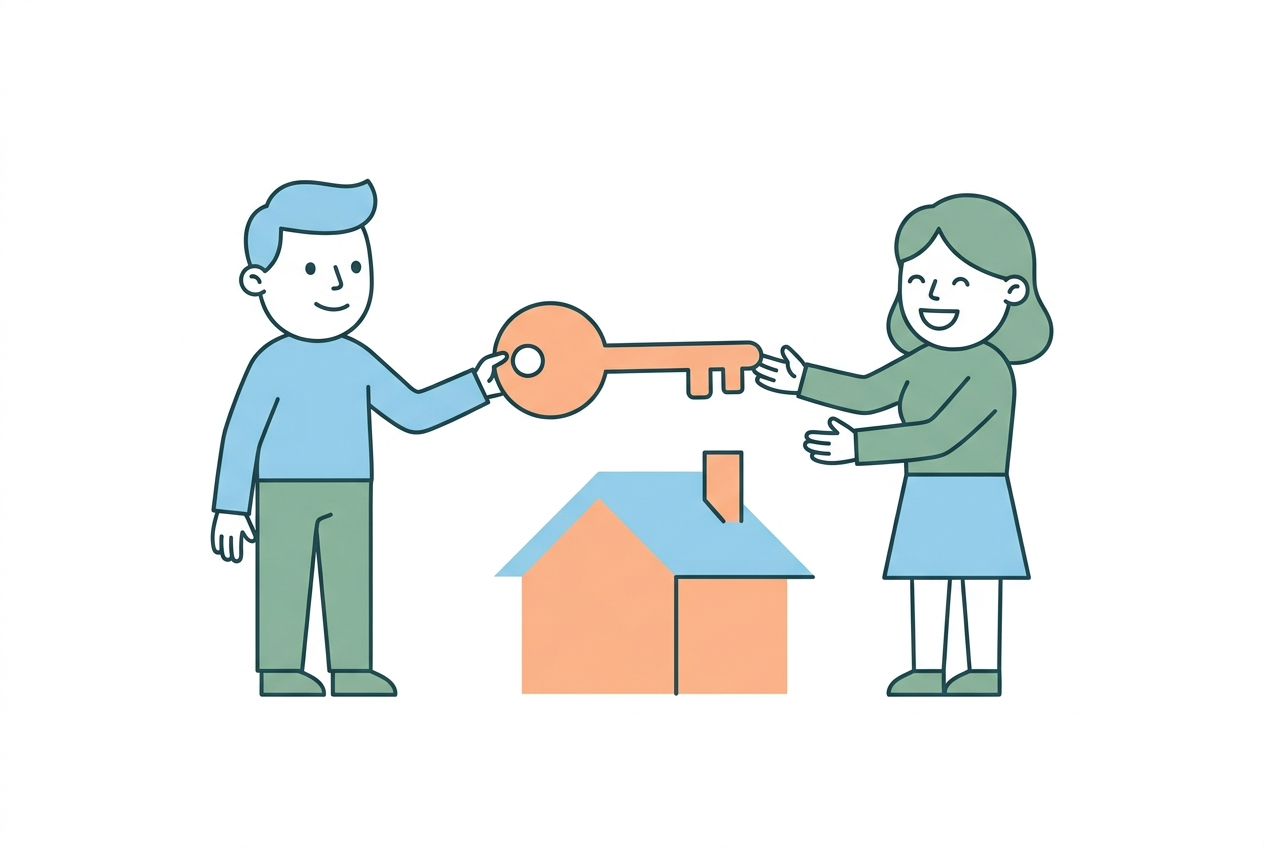
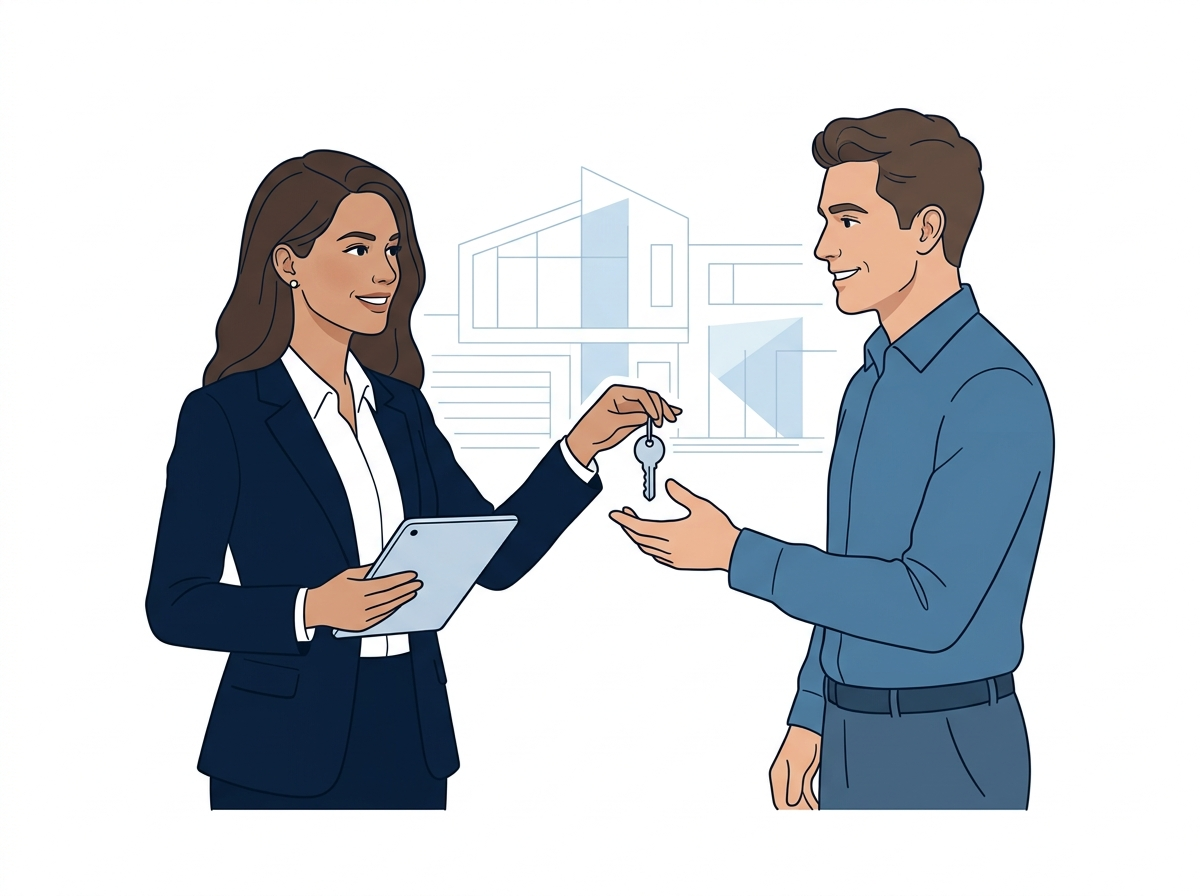
feat(home): add professional service illustrations and fix map listing display - Add professional brand-aligned character illustrations for Buy, Rent, and Sell cards - Fix property search API query handling and missing database columns - Update PropertyMap to correctly render existing property listi

diff --git a/Erns/components/PropertyMap.tsx b/Erns/components/PropertyMap.tsx
@@ -56,11 +56,14 @@ export default function PropertyMap({
   const popupRef = useRef<maplibregl.Popup | null>(null);
   const boundsDebounceTimer = useRef<NodeJS.Timeout | null>(null);
   const isProgrammaticMove = useRef<boolean>(false);
+  const mapLoadedRef = useRef<boolean>(false);
+  const propertiesRef = useRef<Property[]>(properties);
 
   const [currentStyle, setCurrentStyle] = useState<string>("liberty");
   const [isLoading, setIsLoading] = useState<boolean>(true);
   const [loadError, setLoadError] = useState<string | null>(null);
   const [activeProperty, setActiveProperty] = useState<Property | null>(null);
+  const [markerUpdateCount, forceMarkerUpdate] = useState(0);
 
   // Determine initial style URL (supports custom ENV if set, otherwise OpenFreeMap)
   const getStyleUrl = (styleId: string): string | maplibregl.StyleSpecification => {
@@ -228,25 +231,22 @@ export default function PropertyMap({
     onBoundsChangeRef.current = onBoundsChange;
   }, [onBoundsChange]);
 
+  // Keep propertiesRef in sync so the map init closure always sees the latest properties
+  useEffect(() => {
+    propertiesRef.current = properties;
+  }, [properties]);
+
   const handleStyleChange = (newStyle: string) => {
     setIsLoading(true);
     setLoadError(null);
     setCurrentStyle(newStyle);
   };
 
-  // Initialize MapLibre GL instance
+  // Initialize MapLibre GL instance — only re-run when the style changes, NOT when properties change
   useEffect(() => {
     if (!containerRef.current) return;
 
-    // Initial center detection: if properties are present, center around first or average
-    let initialLng = DEFAULT_CENTER[0];
-    let initialLat = DEFAULT_CENTER[1];
-
-    if (properties.length > 0) {
-      initialLng = properties[0].longitude;
-      initialLat = properties[0].latitude;
-    }
-
+    mapLoadedRef.current = false;
     let mapInstance: maplibregl.Map | null = null;
     const currentMarkers = markersRef.current;
 
@@ -261,7 +261,7 @@ export default function PropertyMap({
       mapInstance = new maplibregl.Map({
         container: containerRef.current,
         style: getStyleUrl(currentStyle),
-        center: [initialLng, initialLat],
+        center: DEFAULT_CENTER,
         zoom: DEFAULT_ZOOM,
         attributionControl: { compact: false },
       });
@@ -278,15 +278,27 @@ export default function PropertyMap({
 
       // Map loaded successfully
       mapInstance.on("load", () => {
+        mapLoadedRef.current = true;
         setIsLoading(false);
 
-        // Fit to properties bounds if multiple exist
-        if (properties.length > 1) {
+        // Fit to properties bounds if properties are already loaded
+        const currentProps = propertiesRef.current;
+        if (currentProps.length > 1) {
           isProgrammaticMove.current = true;
           const bounds = new maplibregl.LngLatBounds();
-          properties.forEach((p) => bounds.extend([p.longitude, p.latitude]));
+          currentProps.forEach((p) => bounds.extend([p.longitude, p.latitude]));
           mapInstance?.fitBounds(bounds, { padding: 60, maxZoom: 15, duration: 800 });
+        } else if (currentProps.length === 1) {
+          isProgrammaticMove.current = true;
+          mapInstance?.flyTo({
+            center: [currentProps[0].longitude, currentProps[0].latitude],
+            zoom: DEFAULT_ZOOM,
+            duration: 800,
+          });
         }
+
+        // Trigger marker sync now that the map is ready
+        forceMarkerUpdate((n) => n + 1);
       });
 
       // Handle user-initiated map pan/zoom to report bounds to parent search
@@ -341,6 +353,7 @@ export default function PropertyMap({
     window.addEventListener("resize", handleResize);
 
     return () => {
+      mapLoadedRef.current = false;
       window.removeEventListener("resize", handleResize);
       if (boundsDebounceTimer.current) {
         clearTimeout(boundsDebounceTimer.current);
@@ -355,12 +368,31 @@ export default function PropertyMap({
       }
       mapRef.current = null;
     };
-  }, [currentStyle, properties]);
+  }, [currentStyle]);
+
+  // Fit bounds when properties arrive/change after map is already loaded
+  useEffect(() => {
+    if (!mapLoadedRef.current || !mapRef.current) return;
+    if (properties.length > 1) {
+      isProgrammaticMove.current = true;
+      const bounds = new maplibregl.LngLatBounds();
+      properties.forEach((p) => bounds.extend([p.longitude, p.latitude]));
+      mapRef.current.fitBounds(bounds, { padding: 60, maxZoom: 15, duration: 800 });
+    } else if (properties.length === 1) {
+      isProgrammaticMove.current = true;
+      mapRef.current.flyTo({
+        center: [properties[0].longitude, properties[0].latitude],
+        zoom: DEFAULT_ZOOM,
+        duration: 800,
+      });
+    }
+  }, [properties]);
 
   // Synchronize Markers with current properties
   useEffect(() => {
     const map = mapRef.current;
-    if (!map) return;
+    // Wait for the map to be fully loaded before adding markers
+    if (!map || !mapLoadedRef.current) return;
 
     const currentMarkers = markersRef.current;
     const nextPropIds = new Set(properties.map((p) => p.id));
@@ -437,7 +469,7 @@ export default function PropertyMap({
 
       currentMarkers.set(property.id, { marker, el: badge });
     });
-  }, [properties, hoveredPropertyId, selectedPropertyId, activeProperty, openPropertyPopup, onSelectProperty]);
+  }, [properties, hoveredPropertyId, selectedPropertyId, activeProperty, openPropertyPopup, onSelectProperty, markerUpdateCount]);
 
   // Synchronize external selection (e.g. from parent list click)
   useEffect(() => {

diff --git a/Erns/app/api/properties/search/route.ts b/Erns/app/api/properties/search/route.ts
@@ -16,6 +16,7 @@ export async function GET(request: Request) {
     const minPrice = searchParams.get("minPrice") ? parseFloat(searchParams.get("minPrice")!) : undefined;
     const maxPrice = searchParams.get("maxPrice") ? parseFloat(searchParams.get("maxPrice")!) : undefined;
     const status = searchParams.get("status"); // "FOR_SALE" or "FOR_RENT"
+    const propertyType = searchParams.get("propertyType")?.trim(); // e.g. "Apartment", "Villa"
     const beds = searchParams.get("beds") && searchParams.get("beds") !== "Any" ? parseInt(searchParams.get("beds")!) : undefined;
     const baths = searchParams.get("baths") && searchParams.get("baths") !== "Any" ? parseFloat(searchParams.get("baths")!) : undefined;
     const exactMatchBeds = searchParams.get("exactMatchBeds") === "true";
@@ -31,6 +32,8 @@ export async function GET(request: Request) {
               { address: { contains: query, mode: "insensitive" } },
               { city: { contains: query, mode: "insensitive" } },
               { state: { contains: query, mode: "insensitive" } },
+              { title: { contains: query, mode: "insensitive" } },
+              { subCity: { contains: query, mode: "insensitive" } },
             ],
           }
           : {}),
@@ -43,15 +46,21 @@ export async function GET(request: Request) {
           }
           : {}),
         ...(status && status !== "Any" ? { status } : {}),
+        ...(propertyType ? { propertyType: { equals: propertyType, mode: "insensitive" } } : {}),
         ...(beds ? { beds: exactMatchBeds ? beds : { gte: beds } } : {}),
         ...(baths ? { baths: { gte: baths } } : {}),
       },
-      take: 100, // Reasonable limit for rendering on map
+      orderBy: { createdAt: "desc" },
+      take: 100,
     });
 
     return NextResponse.json(properties);
   } catch (error) {
-    console.error("Search API Error:", error);
-    return NextResponse.json({ error: "Failed to fetch properties" }, { status: 500 });
+    console.error("[Search API] Error fetching properties:", error);
+    return NextResponse.json(
+      { error: "Failed to fetch properties", detail: error instanceof Error ? error.message : String(error) },
+      { status: 500 }
+    );
   }
 }
+

diff --git a/Erns/components/home/Services/Services.tsx b/Erns/components/home/Services/Services.tsx
@@ -12,7 +12,7 @@ export function Services() {
 
   const serviceItems = [
     {
-      imageSrc: "/buy-house.jpg",
+      imageSrc: "/buy-home-professional.jpg",
       imageAlt: t.buy.title,
       title: t.buy.title,
       description: t.buy.description,
@@ -20,7 +20,7 @@ export function Services() {
       href: "/agents",
     },
     {
-      imageSrc: "/rent-house.jpg",
+      imageSrc: "/rent-home-professional.jpg",
       imageAlt: t.rent.title,
       title: t.rent.title,
       description: t.rent.description,
@@ -28,7 +28,7 @@ export function Services() {
       href: "/search?status=FOR_RENT",
     },
     {
-      imageSrc: "/sell-house.jpg",
+      imageSrc: "/sell-home-professional.jpg",
       imageAlt: t.sell.title,
       title: t.sell.title,
       description: t.sell.description,
